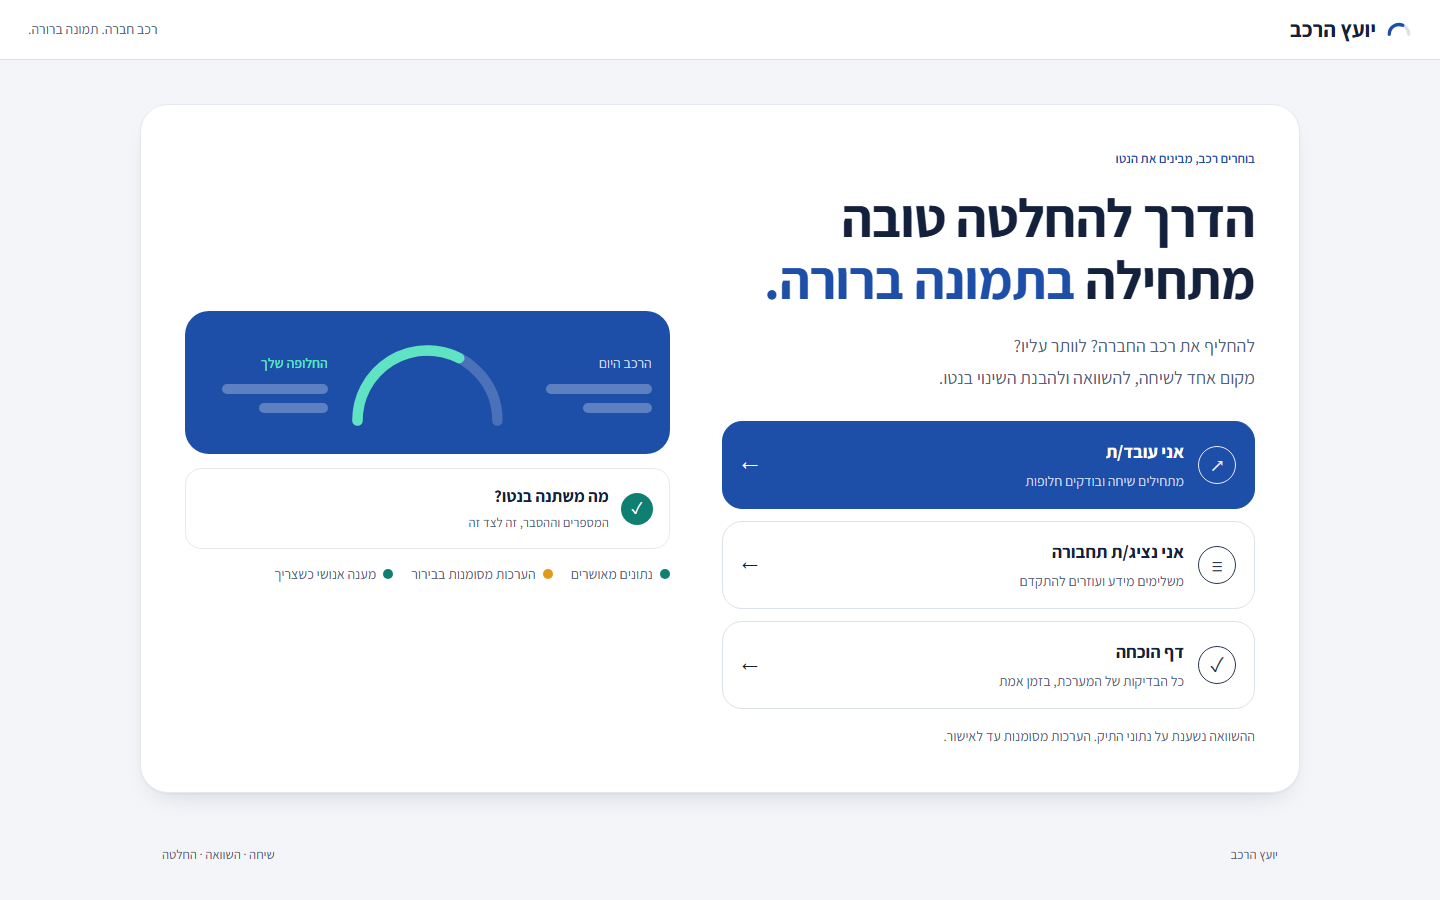
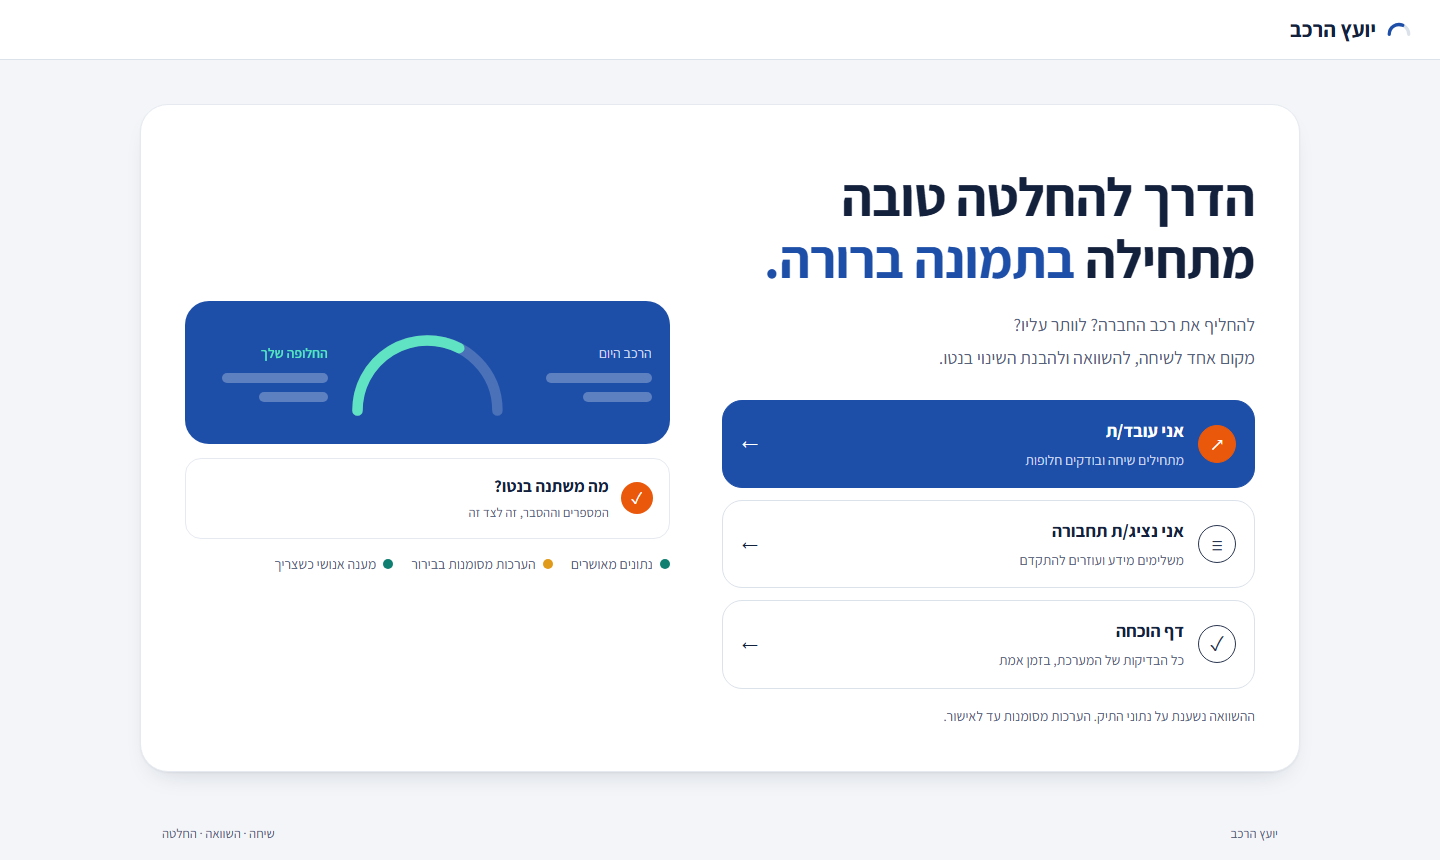
Welcome page: an orange accent on the employee button and the result check

diff --git a/src/main/resources/static/css/app.css b/src/main/resources/static/css/app.css
@@ -19,6 +19,8 @@
   --loss: #C2410C; --loss-soft: #FCEDE5;
   --wait: #E09B1B; --wait-soft: #FFF4DE; --wait-ink: #6B4A12; --wait-light: #FFC75A;
   --danger: #C9382B; --danger-soft: #FCECEA;
+  /* a warm touch on the welcome page only; inside the app orange means "the net goes down" */
+  --warm: #EA580C;
   --r-sm: 10px; --r-md: 16px; --r-lg: 20px; --r-xl: 24px; --r-pill: 999px;
   --shadow: 0 1px 2px rgba(20, 33, 61, .05), 0 12px 28px -16px rgba(20, 33, 61, .22);
   --focus: 3px solid var(--primary);
@@ -406,6 +408,7 @@ progress::-moz-progress-bar { background: var(--primary); border-radius: var(--r
 .primary-role { border-color: var(--primary); background: var(--primary); color: var(--on-primary); }
 .primary-role:hover { background: #193F86; }
 .primary-role small { color: var(--primary-muted); }
+.primary-role .role-symbol { border-color: var(--warm); background: var(--warm); color: #fff; opacity: 1; }
 .role-symbol { display: grid; place-items: center; width: 38px; height: 38px; flex: none; border: 1.5px solid currentColor; border-radius: 50%; font-size: 20px; opacity: .9; }
 .quiet-note { margin-top: 16px; color: var(--muted); font-size: 14px; }
 /* a quiet preview of the result screen: the same blue cluster, no numbers */
@@ -420,7 +423,7 @@ progress::-moz-progress-bar { background: var(--primary); border-radius: var(--r
 .art-result { display: flex; align-items: center; gap: 12px; padding: 14px 16px; border: 1px solid var(--line-2); border-radius: var(--r-md); background: var(--surface); }
 .art-result strong { display: block; font-size: 17px; }
 .art-result small { display: block; margin-top: 3px; color: var(--muted); font-size: 13px; }
-.art-check { display: grid; place-items: center; width: 32px; height: 32px; flex: none; border-radius: 50%; background: var(--gain); color: #fff; }
+.art-check { display: grid; place-items: center; width: 32px; height: 32px; flex: none; border-radius: 50%; background: var(--warm); color: #fff; }
 .preview-lights { display: flex; flex-wrap: wrap; gap: 8px 18px; color: var(--muted); font-size: 14px; }
 .preview-lights > span { display: inline-flex; align-items: center; gap: 7px; }
 .preview-lights .light-dot { width: 10px; height: 10px; flex: none; border-radius: 50%; }
